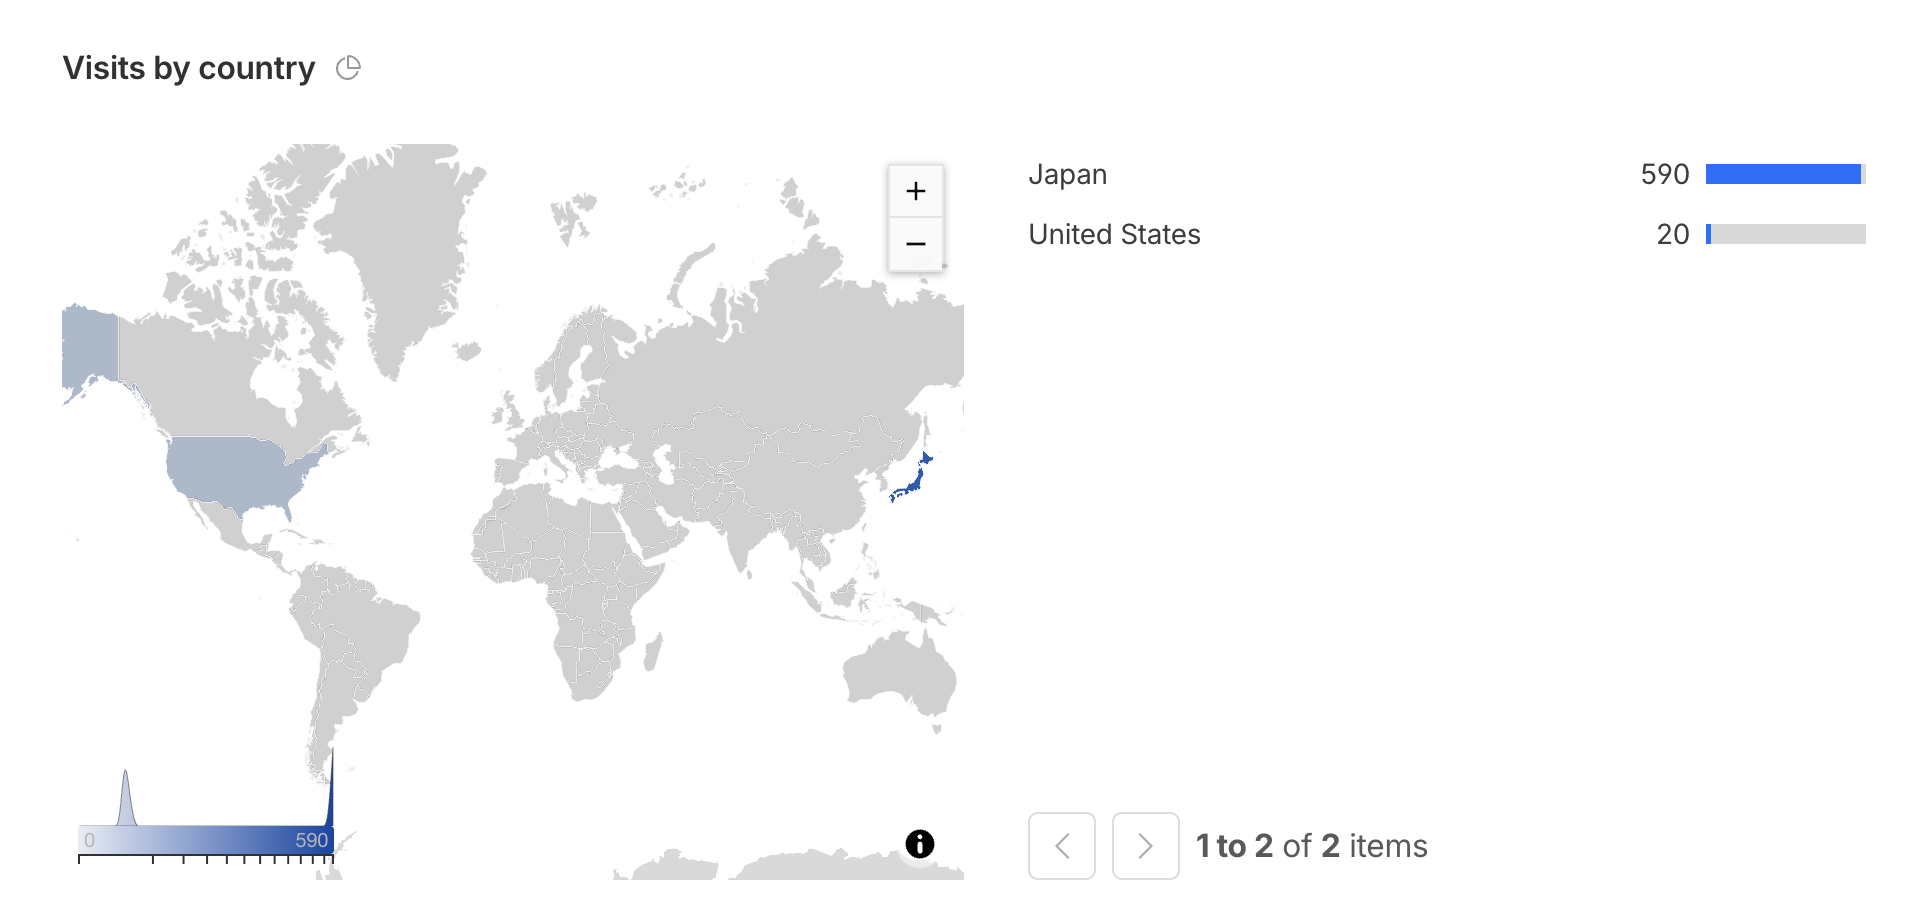
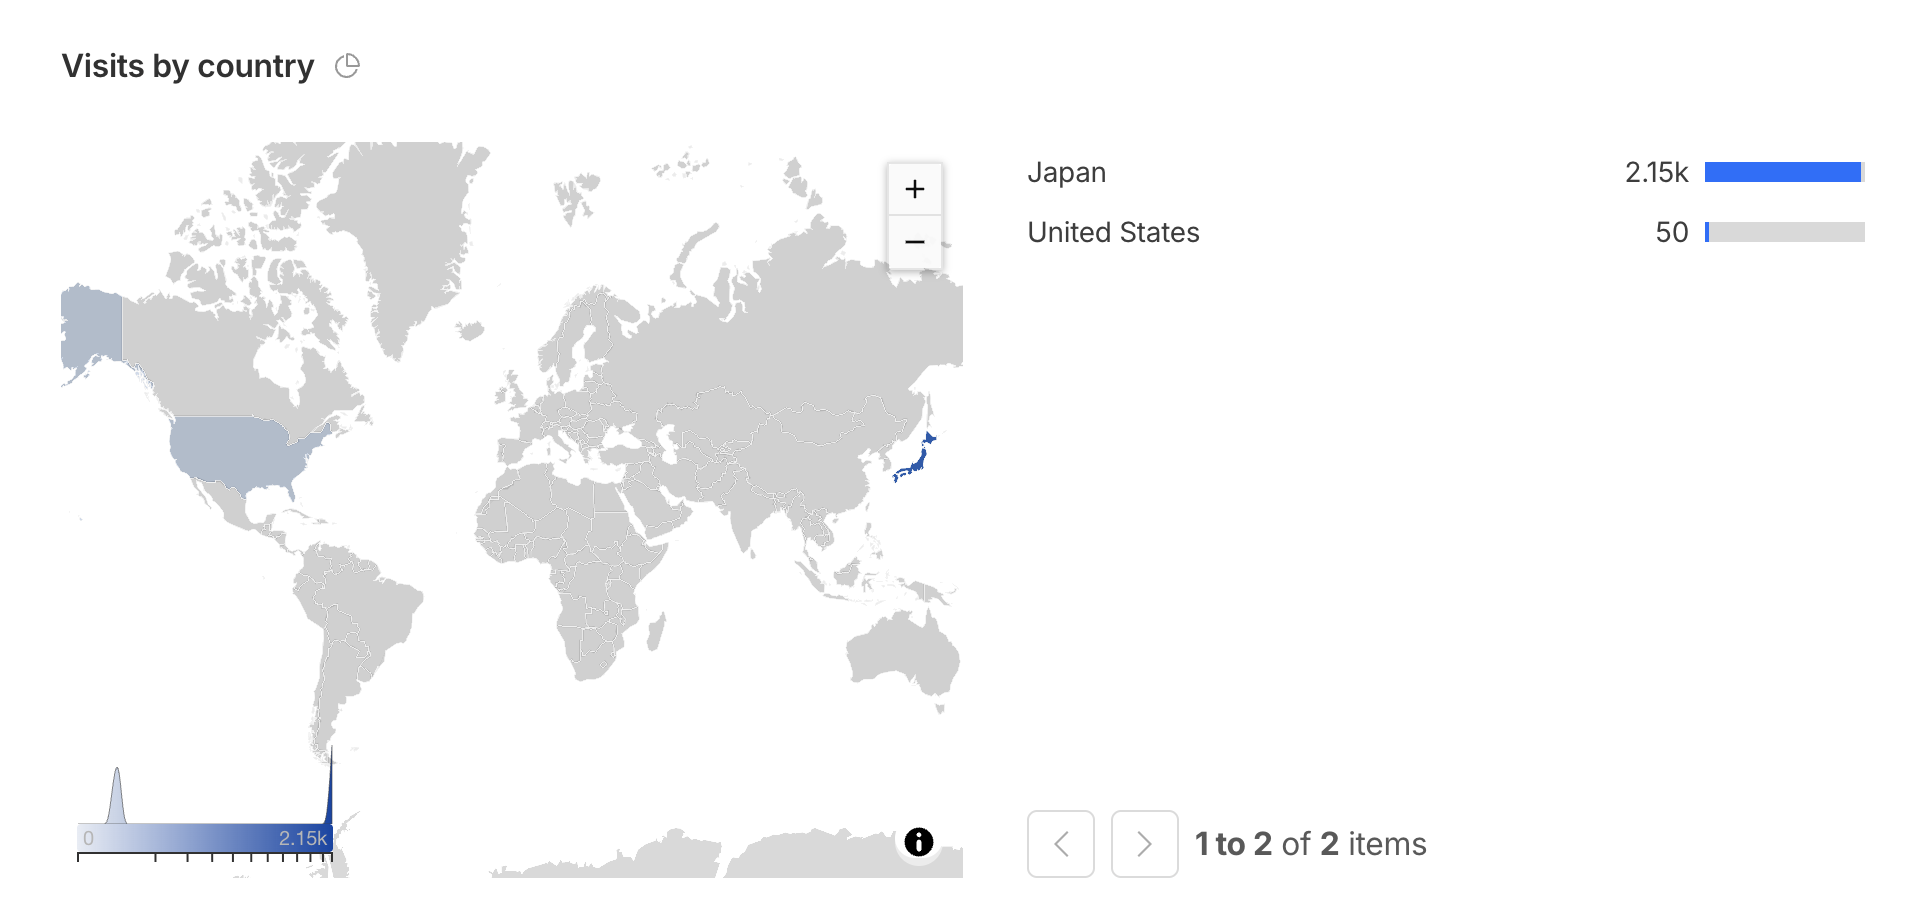
docs(readme): アクセス状況を2026/08/23〜09/21分に更新（本番+旧URL合算）、7月分は過去の集計として畳んで保存
- 新しい集計：累計2,200（potalk.app 1,870 / qramo.github.io 330）。ドメインフィルタを外し両ホスト合算に
  していることを明記（7月分は旧URLのみなので単純比較できない旨も注記）
- 7月分（累計610）は画像を images/readme/archive/2026-07-25/ に退避し、<details> で畳んで残す
  （履歴として参照可能。トップの表示は最新のみ）

diff --git a/README.md b/README.md
@@ -304,12 +304,57 @@ python3 -m http.server 8000
 
 このアプリは [Cloudflare Web Analytics](https://www.cloudflare.com/web-analytics/)（**Cookie不使用・個人を特定しない匿名集計**）で**アクセス数だけ**を測っています。透明性のため、その集計を公開します。個々の通話内容・在室・音声は一切測っていません（そもそも測る仕組みがありません）。
 
-**集計期間：2026/07/12〜07/25（JST）／累計訪問数：610**
+**集計期間：2026/08/23〜09/21（JST）／累計訪問数：2,200**
 
-> ※ この数字は 2026/07/25 時点のものです（最終更新 2026/09/14）。次の集計で差し替えます。
-数値は Cloudflare 側で10単位に丸められた概数、2026/07/26 時点のスナップショットです。公開した 7/19 以降に立ち上がり、告知を広げた **7/24 に約160/日でピーク**。
+> ※ この数字は 2026/09/21 時点のものです（最終更新 2026/09/21）。次の集計で差し替えます。**このぶんから、本番（potalk.app）と旧URL（β・qramo.github.io/po_call/）を合算**しています（下の過去の集計は旧URLのみ）。
+数値は Cloudflare 側で10単位に丸められた概数。**9/19 に約430/日でピーク**。
 
 ![訪問数の推移（Cloudflare Web Analytics）](images/readme/analytics-visits.png)
+
+**ホスト別（本番 / 旧URL）**
+
+| ホスト | 訪問 |
+|---|--:|
+| potalk.app（本番） | 1,870 |
+| qramo.github.io（旧URL・β） | 330 |
+
+**国別**
+
+| 国 | 訪問 |
+|---|--:|
+| 日本 | 2,150 |
+| アメリカ | 50 |
+
+![国別アクセス（日本 / アメリカ）](images/readme/analytics-countries.png)
+
+**参照元（どこから来たか・上位5）**
+
+| 参照元 | 訪問 |
+|---|--:|
+| なし（直接アクセス） | 1,410 |
+| t.co（X / Twitter） | 350 |
+| www.google.com（検索） | 230 |
+| wanderingdj.jp | 140 |
+| jp.naver.line.android（LINE） | 40 |
+
+**デバイス / OS / ブラウザ**
+
+| デバイス | 訪問 | | OS | 訪問 | | ブラウザ | 訪問 |
+|---|--:|---|---|--:|---|---|--:|
+| モバイル | 1,610 | | iOS | 860 | | Chrome Mobile | 780 |
+| デスクトップ | 550 | | Android | 620 | | Mobile Safari | 660 |
+| タブレット | 40 | | macOS | 300 | | Chrome | 210 |
+| | | | 不明 | 190 | | 不明 | 190 |
+| | | | Linux | 130 | | Firefox | 130 |
+
+![参照元・パス・ホスト・ブラウザ・OS・デバイスの内訳](images/readme/analytics-sources.png)
+
+<details>
+<summary>📜 過去の集計（2026/07/12〜07/25・旧URLのみ・累計訪問数 610）</summary>
+
+数値は Cloudflare 側で10単位に丸められた概数、2026/07/26 時点のスナップショットです。公開した 7/19 以降に立ち上がり、告知を広げた **7/24 に約160/日でピーク**。当時はすべてページ全体（当時のURL `qramo.github.io/po_call/`）へのアクセスです。
+
+![訪問数の推移（2026/07）](images/readme/archive/2026-07-25/analytics-visits.png)
 
 **国別**
 
@@ -318,7 +363,7 @@ python3 -m http.server 8000
 | 日本 | 590 |
 | アメリカ | 20 |
 
-![国別アクセス（日本 / アメリカ）](images/readme/analytics-countries.png)
+![国別アクセス（2026/07）](images/readme/archive/2026-07-25/analytics-countries.png)
 
 **参照元（どこから来たか）**
 
@@ -340,9 +385,11 @@ python3 -m http.server 8000
 | | | | Windows | 30 | | Firefox | 10 |
 | | | | 不明 | 30 | | 不明 | ※ |
 
-![参照元・パス・ホスト・ブラウザ・OS・デバイスの内訳](images/readme/analytics-sources.png)
+![参照元・パス・ホスト・ブラウザ・OS・デバイスの内訳（2026/07）](images/readme/archive/2026-07-25/analytics-sources.png)
 
-※ ブラウザの「不明（Unknown）」は元画面で数値が隠れていたため未記載。すべてページ全体（当時のURL `qramo.github.io/po_call/`）へのアクセスです。
+※ ブラウザの「不明（Unknown）」は元画面で数値が隠れていたため未記載。
+
+</details>
 
 ---
 
